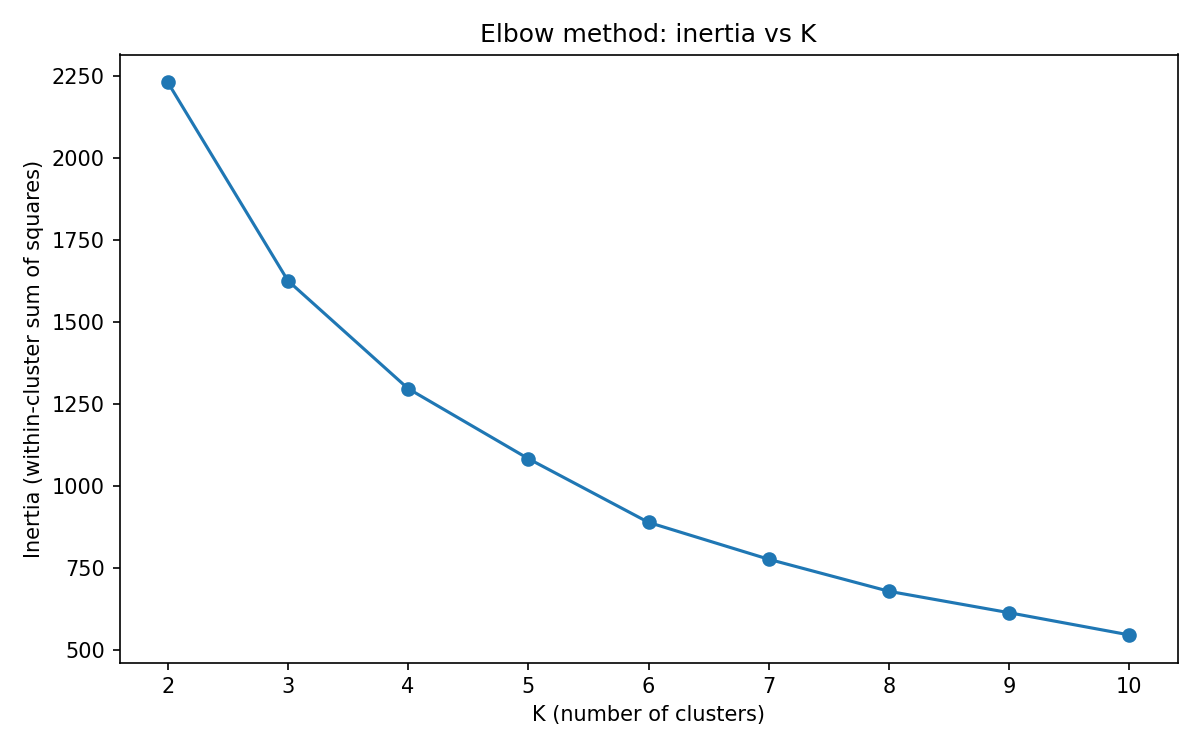
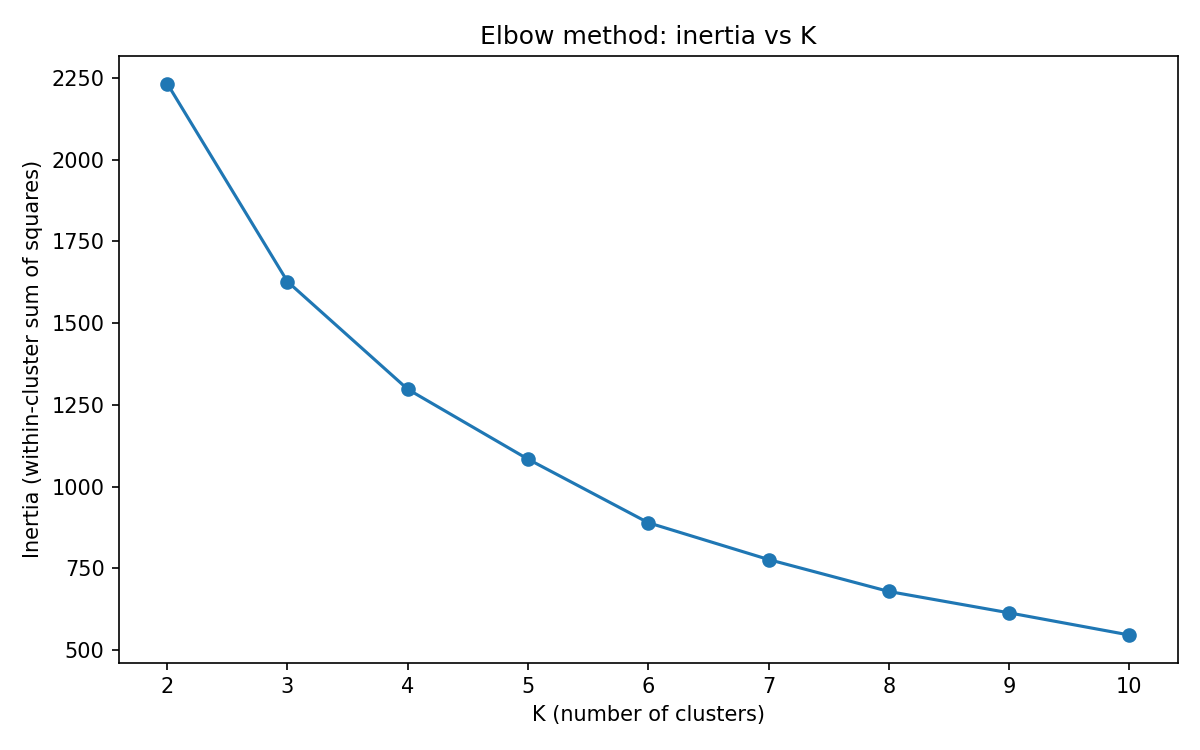
Enhance K-Means clustering implementation by updating hyperparameters, adding feature correlation plotting, and logging cluster centers. Introduce new metrics and save cluster profiles for analysis. Update output filenames and documentation for clarity on version changes.

diff --git a/src/main.py b/src/main.py
@@ -19,6 +19,7 @@ import pandas as pd
 import seaborn as sns
 from sklearn.cluster import DBSCAN, KMeans
 from sklearn.metrics import davies_bouldin_score, silhouette_score
+from sklearn.preprocessing import StandardScaler
 
 from src.aggregation import aggregate_to_student_level
 from src.data_loader import load_raw_data
@@ -26,12 +27,18 @@ from src.processing import FEATURES, clean_data, scale_data
 
 logger = logging.getLogger(__name__)
 
-# Clustering hyperparameters (Version 3)
+# Clustering hyperparameters (Version 4 — profiling & analysis phase)
 KMEANS_CLUSTERS = 5
-DBSCAN_EPS = 0.3
+DBSCAN_EPS = 0.6
 DBSCAN_MIN_SAMPLES = 10
 NOISE_INFO_THRESHOLD = 0.2
 ELBOW_K_RANGE = range(2, 11)  # K = 2 .. 10
+
+PROFILE_FEATURES = [
+    "total_absence_percent",
+    "invalid_ratio",
+    "absent_subject_count",
+]
 
 
 def _repo_root() -> Path:
@@ -78,25 +85,44 @@ def _metrics_scaled(
     return sil, db
 
 
+def _log_kmeans_cluster_centers(
+    km: KMeans, scaler: StandardScaler, feature_names: list[str]
+) -> None:
+    centers_scaled = km.cluster_centers_
+    centers_orig = scaler.inverse_transform(centers_scaled)
+    logger.info("K-Means cluster centers (original feature scale — interpretable):")
+    for i, row in enumerate(centers_orig):
+        parts = ", ".join(f"{name}={val:.4f}" for name, val in zip(feature_names, row))
+        logger.info("  Cluster %d: %s", i, parts)
+    logger.info("K-Means cluster centers (standardized feature space):")
+    for i, row in enumerate(centers_scaled):
+        parts = ", ".join(f"{name}={val:.4f}" for name, val in zip(feature_names, row))
+        logger.info("  Cluster %d: %s", i, parts)
+
+
 def _save_scatter(
     plot_df: pd.DataFrame,
     hue_col: str,
     title: str,
     out_path: Path,
+    x: str,
+    y: str,
+    xlabel: str,
+    ylabel: str,
 ) -> None:
     fig, ax = plt.subplots(figsize=(9, 6))
     sns.scatterplot(
         data=plot_df,
-        x="total_absence_percent",
-        y="invalid_ratio",
+        x=x,
+        y=y,
         hue=hue_col,
         palette="viridis",
         alpha=0.5,
         ax=ax,
     )
     ax.set_title(title)
-    ax.set_xlabel("Total absence %")
-    ax.set_ylabel("Invalid absence ratio")
+    ax.set_xlabel(xlabel)
+    ax.set_ylabel(ylabel)
     plt.tight_layout()
     fig.savefig(out_path, dpi=150)
     logger.info("Saved plot to %s", out_path)
@@ -128,6 +154,20 @@ def _plot_elbow(X_scaled: pd.DataFrame, out_path: Path) -> None:
         plt.close(fig)
 
 
+def _plot_feature_correlation(df: pd.DataFrame, cols: list[str], out_path: Path) -> None:
+    corr = df[cols].corr()
+    fig, ax = plt.subplots(figsize=(6, 5))
+    sns.heatmap(corr, annot=True, fmt=".3f", cmap="coolwarm", center=0, ax=ax, vmin=-1, vmax=1)
+    ax.set_title("Feature correlation (student-level)")
+    plt.tight_layout()
+    fig.savefig(out_path, dpi=150)
+    logger.info("Saved correlation heatmap to %s", out_path)
+    if plt.get_backend().lower() != "agg":
+        plt.show()
+    else:
+        plt.close(fig)
+
+
 def _write_metrics_file(
     path: Path,
     km_sil: float | None,
@@ -136,7 +176,7 @@ def _write_metrics_file(
     db_db: float | None,
 ) -> None:
     lines = [
-        "Model comparison (Version 3)",
+        "Model comparison (Version 4)",
         "============================",
         "",
         f"K-Means (k={KMEANS_CLUSTERS})",
@@ -161,12 +201,15 @@ def main() -> None:
 
     path_student_features = processed_dir / "student_features.parquet"
     path_student_clusters = processed_dir / "student_clusters_results.parquet"
-    plot_kmeans = plots_dir / "kmeans_clusters_v3.png"
-    plot_dbscan = plots_dir / "dbscan_clusters_v3.png"
+    plot_kmeans = plots_dir / "kmeans_clusters_v4.png"
+    plot_dbscan = plots_dir / "dbscan_clusters_v4.png"
     plot_elbow = plots_dir / "kmeans_elbow_tool.png"
-    path_metrics = metrics_dir / "model_comparison_v3.txt"
+    plot_corr = plots_dir / "feature_correlation_v4.png"
+    plot_subject_spread = plots_dir / "subject_spread_v4.png"
+    path_metrics = metrics_dir / "model_comparison_v4.txt"
+    path_profiles = metrics_dir / "cluster_profiles_v4.csv"
 
-    logger.info("--- Pipeline start (v3) ---")
+    logger.info("--- Pipeline start (v4 — profiling & analysis) ---")
     logger.info("Data file: %s", raw_path)
 
     # 1. Cleaning — lesson-level (see processing.clean_data).
@@ -187,13 +230,26 @@ def main() -> None:
         "Starting Feature Selection: Using %d variables for clustering.",
         len(FEATURES),
     )
-    X_scaled, _scaler = scale_data(student_df, FEATURES)
+    X_scaled, scaler = scale_data(student_df, FEATURES)
+
+    _plot_feature_correlation(student_df, PROFILE_FEATURES, plot_corr)
 
     _plot_elbow(X_scaled, plot_elbow)
 
     logger.info("--- K-Means (k=%s) ---", KMEANS_CLUSTERS)
     km = KMeans(n_clusters=KMEANS_CLUSTERS, random_state=42, n_init=10)
     labels_km = km.fit_predict(X_scaled)
+    _log_kmeans_cluster_centers(km, scaler, FEATURES)
+
+    # Optional: map K-Means cluster IDs (0..K-1) to descriptive labels after inspecting
+    # cluster_profiles_v4.csv and domain knowledge, e.g.:
+    #   CLUSTER_LABELS = {
+    #       0: "High risk — high % absence across many subjects",
+    #       1: "Chronic illness / valid-dominant profile",
+    #       ...
+    #   }
+    # Then: results_df["cluster_label"] = results_df["KMeans_Cluster"].map(CLUSTER_LABELS)
+
     km_sil, km_db = _metrics_scaled(X_scaled, labels_km, "K-Means", exclude_noise=False)
 
     logger.info("--- DBSCAN (eps=%s, min_samples=%s) ---", DBSCAN_EPS, DBSCAN_MIN_SAMPLES)
@@ -226,6 +282,14 @@ def main() -> None:
     results_df.to_parquet(path_student_clusters, index=False)
     logger.info("Saved clustering results to %s", path_student_clusters)
 
+    profiles = (
+        results_df.groupby("KMeans_Cluster", as_index=False)[PROFILE_FEATURES]
+        .mean()
+        .sort_values("KMeans_Cluster")
+    )
+    profiles.to_csv(path_profiles, index=False)
+    logger.info("Saved cluster mean profiles to %s", path_profiles)
+
     plot_df = results_df.copy()
     plot_df["kmeans_cluster"] = plot_df["KMeans_Cluster"]
     plot_df["dbscan_cluster"] = plot_df["DBSCAN_Cluster"]
@@ -233,14 +297,32 @@ def main() -> None:
     _save_scatter(
         plot_df,
         hue_col="kmeans_cluster",
-        title="Total absence % vs invalid absence ratio (K-Means, v3)",
+        title="Total absence % vs invalid absence ratio (K-Means, v4)",
         out_path=plot_kmeans,
+        x="total_absence_percent",
+        y="invalid_ratio",
+        xlabel="Total absence %",
+        ylabel="Invalid absence ratio",
     )
     _save_scatter(
         plot_df,
         hue_col="dbscan_cluster",
-        title="Total absence % vs invalid absence ratio (DBSCAN, v3)",
+        title="Total absence % vs invalid absence ratio (DBSCAN, v4)",
         out_path=plot_dbscan,
+        x="total_absence_percent",
+        y="invalid_ratio",
+        xlabel="Total absence %",
+        ylabel="Invalid absence ratio",
+    )
+    _save_scatter(
+        plot_df,
+        hue_col="kmeans_cluster",
+        title="Total absence % vs absent subject count (K-Means, v4)",
+        out_path=plot_subject_spread,
+        x="total_absence_percent",
+        y="absent_subject_count",
+        xlabel="Total absence %",
+        ylabel="Absent subject count",
     )
 
 
